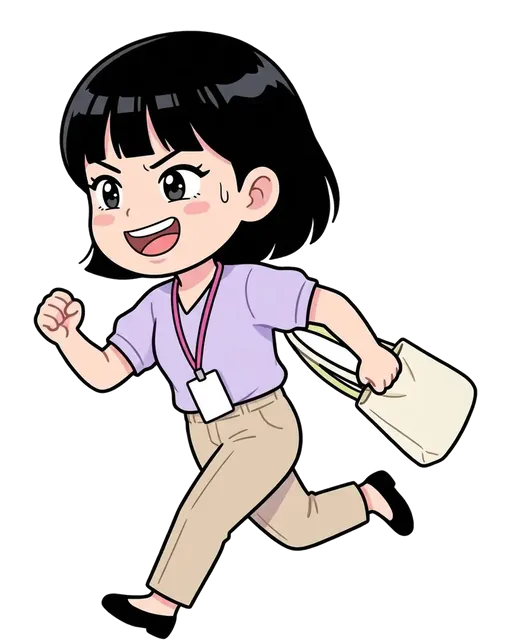
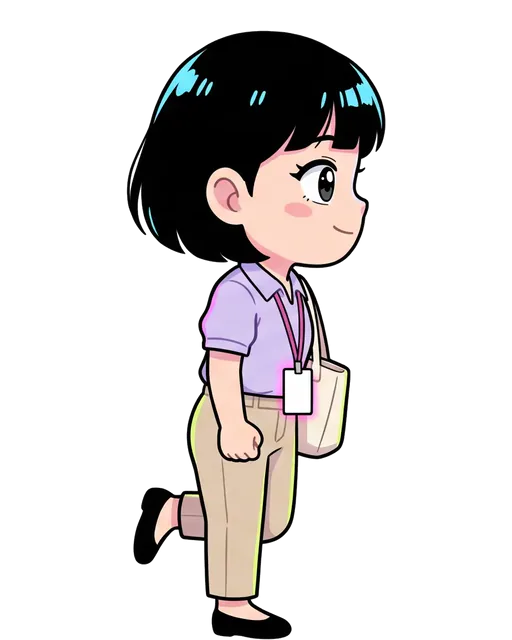
fix(office): hero run cycle and jump all face forward (right)
Run frames 2-3 faced left/camera, so the 4-frame cycle looked like the
hero kept turning around. Regenerated as one right-facing run-cycle sheet
per hero; jump and hit regenerated facing right.

diff --git a/public-office/art/SOURCES.md b/public-office/art/SOURCES.md
@@ -65,20 +65,20 @@ AI-generated for the fictional company 야근상사: no real people, brands, log
 | `floor-1.webp` | nano_banana_flash | bright Korean webtoon comic background art, soft pastel colors, flat cel shading, very low contrast and low detail, no text, no logos. Seamless tileable floor texture seen from directly above: smooth light mint vinyl office flooring with only a soft subtle mottled speckle, no tiles, no grid lines, no seams, nearly uniform color, flat even lighting, nothing on the floor. |
 | `floor-2.webp` | nano_banana_flash | bright Korean webtoon comic background art, soft pastel colors, flat cel shading, very low contrast and low detail, no text, no logos. Seamless tileable floor texture seen from directly above: soft lavender low-pile office carpet with a gentle fuzzy fiber texture and faint soft mottling, no tiles, no grid lines, no seams, no pattern, nearly uniform color, flat even lighting, nothing on the floor. |
 | `floor-3.webp` | nano_banana_flash | bright Korean webtoon comic background art, bold clean outlines, soft pastel base colors with a few small neon accent pops, flat cel shading, low contrast calm background (characters will be drawn on top), no people, no text, no letters, no numbers, no logos. Top-down orthographic view looking straight down at a floor, seamless repeating texture, uniform even pattern edge to edge, flat even lighting, no objects, no shadows, no perspective. The floor: polished peach and cream terrazzo floor tiles with small speckles. |
-| `hero-cat-hit.webp` | nano_banana_flash | $STYLE. Same exact character as the reference image (same face, hair, glasses/badge, outfit, colors, proportions, line style). Single character only, full body head to toe inside the frame, on a pure flat white background, no ground, no shadow, no background objects, no speed-line background. Seen from the side in profile, facing and moving to the RIGHT of the image, body turned slightly toward the viewer (three-quarter side view). Getting bonked: recoiling backward to the left, dizzy swirl eyes, little stars and a cartoon bump on the head, arms flailing, comic pain face (harmless, funny). |
-| `hero-cat-jump.webp` | nano_banana_flash | $STYLE. Same exact character as the reference image (same face, hair, glasses/badge, outfit, colors, proportions, line style). Single character only, full body head to toe inside the frame, on a pure flat white background, no ground, no shadow, no background objects, no speed-line background. Seen from the side in profile, facing and moving to the RIGHT of the image, body turned slightly toward the viewer (three-quarter side view). Jumping high in the air, knees tucked up, arms thrown up, excited shocked face, small motion lines below the feet. |
-| `hero-cat-run1.webp` | nano_banana_flash | $STYLE. Same exact character as the reference image (same face, hair, glasses/badge, outfit, colors, proportions, line style). Single character only, full body head to toe inside the frame, on a pure flat white background, no ground, no shadow, no background objects, no speed-line background. Seen from the side in profile, facing and moving to the RIGHT of the image, body turned slightly toward the viewer (three-quarter side view). Running pose, frame 1 of a run cycle: right leg stretched forward with heel touching down, left leg pushing off behind, arms swinging opposite, leaning forward, determined face. |
-| `hero-cat-run2.webp` | nano_banana_flash | $STYLE. Same exact character as the reference image (same face, hair, glasses/badge, outfit, colors, proportions, line style). Single character only, full body head to toe inside the frame, on a pure flat white background, no ground, no shadow, no background objects, no speed-line background. Seen from the side in profile, facing and moving to the RIGHT of the image, body turned slightly toward the viewer (three-quarter side view). Running pose, frame 2 of a run cycle: right foot planted under the body, left knee lifted and passing forward, arms crossing at the sides, body slightly lower. |
-| `hero-cat-run3.webp` | nano_banana_flash | $STYLE. Same exact character as the reference image (same face, hair, glasses/badge, outfit, colors, proportions, line style). Single character only, full body head to toe inside the frame, on a pure flat white background, no ground, no shadow, no background objects, no speed-line background. Seen from the side in profile, facing and moving to the RIGHT of the image, body turned slightly toward the viewer (three-quarter side view). Running pose, frame 3 of a run cycle: left leg stretched forward with heel touching down, right leg pushing off behind, arms swinging opposite, leaning forward. |
-| `hero-cat-run4.webp` | nano_banana_flash | $STYLE. Same exact character as the reference image (same face, hair, glasses/badge, outfit, colors, proportions, line style). Single character only, full body head to toe inside the frame, on a pure flat white background, no ground, no shadow, no background objects, no speed-line background. Seen from the side in profile, facing and moving to the RIGHT of the image, body turned slightly toward the viewer (three-quarter side view). Running pose, frame 4 of a run cycle: both feet off the ground mid-stride, right knee lifting forward, body high, hair and tie bouncing. |
+| `hero-cat-hit.webp` | nano_banana_flash | $STYLE. Same exact character, outfit and size as the reference image, strict side profile facing RIGHT. Getting bonked while running right: body recoiling backward to the left, face in profile pointing right, dizzy swirl eyes, little stars and a cartoon bump on the head, arms flailing, funny harmless; no objects, no hammer, no weapon. Single character only, full body, pure flat white background, no ground, no shadow, no speed lines. |
+| `hero-cat-jump.webp` | nano_banana_flash | $STYLE. Same exact character, same outfit, same colors, same size and same camera angle as the reference image. Strict side profile view facing RIGHT exactly like the reference: the nose, face, eyes and chest all point to the RIGHT edge of the image, eyes looking straight ahead to the right, we never see the back of the head and the character never looks at the viewer. Single character only, full body head to toe inside the frame, on a pure flat white background, no ground, no shadow, no speed-line background. Jumping high toward the right in side profile: knees tucked up under the body, arms thrown up and forward, excited surprised face in profile looking right. |
+| `hero-cat-run1.webp` | nano_banana_flash (2k, 21:9 sheet) | frame 1 of 4 cut from one run-cycle sheet: $STYLE. Game sprite sheet: exactly FOUR frames of ONE run cycle of the same character, laid out left to right in one row, evenly spaced, same size and same ground line in every frame, every frame in strict side profile facing RIGHT with the face and eyes looking right. Frame 1 contact: front leg reaching forward heel down, back leg behind. Frame 2 passing: one leg straight under the body bearing weight, the other knee bent swinging through, arms close to the body. Frame 3 push-off: back leg fully extended pushing off the toes, front knee driven high. Frame 4 flight: both feet off the ground, legs split wide, body highest. Arms swing opposite to legs. Pure flat white background, no ground line, no shadows, no speed lines, no text, no numbers, no borders between frames. The character is exactly the one in the reference images (young woman, glossy black bob with bangs, lavender short-sleeve blouse, pink lanyard with a blank white ID badge, beige slacks, black flats, cream eco bag on her shoulder). |
+| `hero-cat-run2.webp` | nano_banana_flash (2k, 21:9 sheet) | frame 2 of 4 cut from one run-cycle sheet: $STYLE. Game sprite sheet: exactly FOUR frames of ONE run cycle of the same character, laid out left to right in one row, evenly spaced, same size and same ground line in every frame, every frame in strict side profile facing RIGHT with the face and eyes looking right. Frame 1 contact: front leg reaching forward heel down, back leg behind. Frame 2 passing: one leg straight under the body bearing weight, the other knee bent swinging through, arms close to the body. Frame 3 push-off: back leg fully extended pushing off the toes, front knee driven high. Frame 4 flight: both feet off the ground, legs split wide, body highest. Arms swing opposite to legs. Pure flat white background, no ground line, no shadows, no speed lines, no text, no numbers, no borders between frames. The character is exactly the one in the reference images (young woman, glossy black bob with bangs, lavender short-sleeve blouse, pink lanyard with a blank white ID badge, beige slacks, black flats, cream eco bag on her shoulder). |
+| `hero-cat-run3.webp` | nano_banana_flash (2k, 21:9 sheet) | frame 3 of 4 cut from one run-cycle sheet: $STYLE. Game sprite sheet: exactly FOUR frames of ONE run cycle of the same character, laid out left to right in one row, evenly spaced, same size and same ground line in every frame, every frame in strict side profile facing RIGHT with the face and eyes looking right. Frame 1 contact: front leg reaching forward heel down, back leg behind. Frame 2 passing: one leg straight under the body bearing weight, the other knee bent swinging through, arms close to the body. Frame 3 push-off: back leg fully extended pushing off the toes, front knee driven high. Frame 4 flight: both feet off the ground, legs split wide, body highest. Arms swing opposite to legs. Pure flat white background, no ground line, no shadows, no speed lines, no text, no numbers, no borders between frames. The character is exactly the one in the reference images (young woman, glossy black bob with bangs, lavender short-sleeve blouse, pink lanyard with a blank white ID badge, beige slacks, black flats, cream eco bag on her shoulder). |
+| `hero-cat-run4.webp` | nano_banana_flash (2k, 21:9 sheet) | frame 4 of 4 cut from one run-cycle sheet: $STYLE. Game sprite sheet: exactly FOUR frames of ONE run cycle of the same character, laid out left to right in one row, evenly spaced, same size and same ground line in every frame, every frame in strict side profile facing RIGHT with the face and eyes looking right. Frame 1 contact: front leg reaching forward heel down, back leg behind. Frame 2 passing: one leg straight under the body bearing weight, the other knee bent swinging through, arms close to the body. Frame 3 push-off: back leg fully extended pushing off the toes, front knee driven high. Frame 4 flight: both feet off the ground, legs split wide, body highest. Arms swing opposite to legs. Pure flat white background, no ground line, no shadows, no speed lines, no text, no numbers, no borders between frames. The character is exactly the one in the reference images (young woman, glossy black bob with bangs, lavender short-sleeve blouse, pink lanyard with a blank white ID badge, beige slacks, black flats, cream eco bag on her shoulder). |
 | `hero-cat-slide.webp` | nano_banana_flash | $STYLE. Same exact character as the reference image (same face, hair, glasses/badge, outfit, colors, proportions, line style). Single character only, full body head to toe inside the frame, on a pure flat white background, no ground, no shadow, no background objects, no speed-line background. Seen from the side in profile, facing and moving to the RIGHT of the image, body turned slightly toward the viewer (three-quarter side view). Sliding low on the floor feet-first toward the right like a baseball slide, body leaning back almost lying down, one hand trailing on the floor, eyes squeezed, hair blown back; the whole pose is long and low. |
 | `hero-cat-win.webp` | nano_banana_flash | $STYLE. Same exact character as the reference image (same face, hair, glasses/badge, outfit, colors, proportions, line style). Single character only, full body head to toe inside the frame, on a pure flat white background, no ground, no shadow, no background objects, no speed-line background.  Victory pose facing the viewer, both arms raised high in a joyful cheer, huge happy open-mouth smile, sparkles around, jumping slightly. |
-| `hero-kid-hit.webp` | nano_banana_flash | $STYLE. Same exact character as the first reference image (same face, hair, glasses, white shirt, mint tie, navy slacks, orange backpack and sneakers, line style). Single character only, full body inside the frame, on a pure flat white background, no ground, no shadow, no speed-line background, no effects behind. Seen from the side facing right. Getting bonked: recoiling backward to the left, dizzy swirl eyes, little stars and a cartoon bump on the head, arms flailing, comic pain face (harmless, funny). Plain white behind him, no radiating lines. |
-| `hero-kid-jump.webp` | nano_banana_flash | $STYLE. Same exact character as the reference image (same face, hair, glasses/badge, outfit, colors, proportions, line style). Single character only, full body head to toe inside the frame, on a pure flat white background, no ground, no shadow, no background objects, no speed-line background. Seen from the side in profile, facing and moving to the RIGHT of the image, body turned slightly toward the viewer (three-quarter side view). Jumping high in the air, knees tucked up, arms thrown up, excited shocked face, small motion lines below the feet. |
-| `hero-kid-run1.webp` | nano_banana_flash | $STYLE. Same exact character as the reference image (same face, hair, glasses/badge, outfit, colors, proportions, line style). Single character only, full body head to toe inside the frame, on a pure flat white background, no ground, no shadow, no background objects, no speed-line background. Seen from the side in profile, facing and moving to the RIGHT of the image, body turned slightly toward the viewer (three-quarter side view). Running pose, frame 1 of a run cycle: right leg stretched forward with heel touching down, left leg pushing off behind, arms swinging opposite, leaning forward, determined face. |
-| `hero-kid-run2.webp` | nano_banana_flash | $STYLE. Same exact character as the reference image (same face, hair, glasses/badge, outfit, colors, proportions, line style). Single character only, full body head to toe inside the frame, on a pure flat white background, no ground, no shadow, no background objects, no speed-line background. Seen from the side in profile, facing and moving to the RIGHT of the image, body turned slightly toward the viewer (three-quarter side view). Running pose, frame 2 of a run cycle: right foot planted under the body, left knee lifted and passing forward, arms crossing at the sides, body slightly lower. |
-| `hero-kid-run3.webp` | nano_banana_flash | $STYLE. Same exact character as the reference image (same face, hair, glasses/badge, outfit, colors, proportions, line style). Single character only, full body head to toe inside the frame, on a pure flat white background, no ground, no shadow, no background objects, no speed-line background. Seen from the side in profile, facing and moving to the RIGHT of the image, body turned slightly toward the viewer (three-quarter side view). Running pose, frame 3 of a run cycle: left leg stretched forward with heel touching down, right leg pushing off behind, arms swinging opposite, leaning forward. |
-| `hero-kid-run4.webp` | nano_banana_flash | $STYLE. Same exact character as the reference image (same face, hair, glasses/badge, outfit, colors, proportions, line style). Single character only, full body head to toe inside the frame, on a pure flat white background, no ground, no shadow, no background objects, no speed-line background. Seen from the side in profile, facing and moving to the RIGHT of the image, body turned slightly toward the viewer (three-quarter side view). Running pose, frame 4 of a run cycle: both feet off the ground mid-stride, right knee lifting forward, body high, hair and tie bouncing. |
+| `hero-kid-hit.webp` | nano_banana_flash | $STYLE. Same exact character, same outfit, same colors, same size and same camera angle as the reference image. Strict side profile view facing RIGHT exactly like the reference: the nose, face, eyes and chest all point to the RIGHT edge of the image, eyes looking straight ahead to the right, we never see the back of the head and the character never looks at the viewer. Single character only, full body head to toe inside the frame, on a pure flat white background, no ground, no shadow, no speed-line background. Getting bonked while running right: body recoiling backward to the left but the face still in side profile pointing right, dizzy swirl eyes, little stars and a cartoon bump on the head, arms flailing (harmless, funny). |
+| `hero-kid-jump.webp` | nano_banana_flash | $STYLE. Same exact character, same outfit, same colors, same size and same camera angle as the reference image. Strict side profile view facing RIGHT exactly like the reference: the nose, face, eyes and chest all point to the RIGHT edge of the image, eyes looking straight ahead to the right, we never see the back of the head and the character never looks at the viewer. Single character only, full body head to toe inside the frame, on a pure flat white background, no ground, no shadow, no speed-line background. Jumping high toward the right in side profile: knees tucked up under the body, arms thrown up and forward, excited surprised face in profile looking right. |
+| `hero-kid-run1.webp` | nano_banana_flash (2k, 21:9 sheet) | frame 1 of 4 cut from one run-cycle sheet: $STYLE. Game sprite sheet: exactly FOUR frames of ONE run cycle of the same character, laid out left to right in one row, evenly spaced, same size and same ground line in every frame, every frame in strict side profile facing RIGHT with the face and eyes looking right. Frame 1 contact: front leg reaching forward heel down, back leg behind. Frame 2 passing: one leg straight under the body bearing weight, the other knee bent swinging through, arms close to the body. Frame 3 push-off: back leg fully extended pushing off the toes, front knee driven high. Frame 4 flight: both feet off the ground, legs split wide, body highest. Arms swing opposite to legs. Pure flat white background, no ground line, no shadows, no speed lines, no text, no numbers, no borders between frames. The character is exactly the one in the reference images (young man, round glasses, white short-sleeve shirt, mint necktie, navy slacks, orange backpack, orange sneakers). |
+| `hero-kid-run2.webp` | nano_banana_flash (2k, 21:9 sheet) | frame 2 of 4 cut from one run-cycle sheet: $STYLE. Game sprite sheet: exactly FOUR frames of ONE run cycle of the same character, laid out left to right in one row, evenly spaced, same size and same ground line in every frame, every frame in strict side profile facing RIGHT with the face and eyes looking right. Frame 1 contact: front leg reaching forward heel down, back leg behind. Frame 2 passing: one leg straight under the body bearing weight, the other knee bent swinging through, arms close to the body. Frame 3 push-off: back leg fully extended pushing off the toes, front knee driven high. Frame 4 flight: both feet off the ground, legs split wide, body highest. Arms swing opposite to legs. Pure flat white background, no ground line, no shadows, no speed lines, no text, no numbers, no borders between frames. The character is exactly the one in the reference images (young man, round glasses, white short-sleeve shirt, mint necktie, navy slacks, orange backpack, orange sneakers). |
+| `hero-kid-run3.webp` | nano_banana_flash (2k, 21:9 sheet) | frame 3 of 4 cut from one run-cycle sheet: $STYLE. Game sprite sheet: exactly FOUR frames of ONE run cycle of the same character, laid out left to right in one row, evenly spaced, same size and same ground line in every frame, every frame in strict side profile facing RIGHT with the face and eyes looking right. Frame 1 contact: front leg reaching forward heel down, back leg behind. Frame 2 passing: one leg straight under the body bearing weight, the other knee bent swinging through, arms close to the body. Frame 3 push-off: back leg fully extended pushing off the toes, front knee driven high. Frame 4 flight: both feet off the ground, legs split wide, body highest. Arms swing opposite to legs. Pure flat white background, no ground line, no shadows, no speed lines, no text, no numbers, no borders between frames. The character is exactly the one in the reference images (young man, round glasses, white short-sleeve shirt, mint necktie, navy slacks, orange backpack, orange sneakers). |
+| `hero-kid-run4.webp` | nano_banana_flash (2k, 21:9 sheet) | frame 4 of 4 cut from one run-cycle sheet: $STYLE. Game sprite sheet: exactly FOUR frames of ONE run cycle of the same character, laid out left to right in one row, evenly spaced, same size and same ground line in every frame, every frame in strict side profile facing RIGHT with the face and eyes looking right. Frame 1 contact: front leg reaching forward heel down, back leg behind. Frame 2 passing: one leg straight under the body bearing weight, the other knee bent swinging through, arms close to the body. Frame 3 push-off: back leg fully extended pushing off the toes, front knee driven high. Frame 4 flight: both feet off the ground, legs split wide, body highest. Arms swing opposite to legs. Pure flat white background, no ground line, no shadows, no speed lines, no text, no numbers, no borders between frames. The character is exactly the one in the reference images (young man, round glasses, white short-sleeve shirt, mint necktie, navy slacks, orange backpack, orange sneakers). |
 | `hero-kid-slide.webp` | nano_banana_flash | $STYLE. Same exact character as the first reference image (same face, hair, glasses, white shirt, mint tie, navy slacks, orange backpack and sneakers, line style). Single character only, full body inside the frame, on a pure flat white background, no ground, no shadow, no speed-line background, no effects behind. Copy the low sliding pose of the second reference image: a baseball-style floor slide toward the RIGHT, both legs stretched straight forward to the right, torso reclined backward almost lying down, one hand trailing on the floor behind, head low, eyes squeezed shut, hair and tie blown back. The pose is long and low, wider than tall. |
 | `hero-kid-win.webp` | nano_banana_flash | $STYLE. Same exact character as the reference image (same face, hair, glasses/badge, outfit, colors, proportions, line style). Single character only, full body head to toe inside the frame, on a pure flat white background, no ground, no shadow, no background objects, no speed-line background.  Victory pose facing the viewer, both arms raised high in a joyful cheer, huge happy open-mouth smile, sparkles around, jumping slightly. |
 | `op-cat.webp` | nano_banana_flash | $STYLE. Portrait of exactly the character in the reference image, full body, confident cheerful pose with a peace sign, on a soft lavender pastel gradient background with neon sparkle accents, centered, full body head to toe. |
@@ -144,6 +144,8 @@ AI-generated for the fictional company 야근상사: no real people, brands, log
 map-bg: 9:16 → centre crop 9:20 → 1080×2400, blended 30 % toward #F5EEF0 (low contrast for stage nodes), cwebp -q 78. cut/op-1 regenerated full-bleed (no caption strip), cwebp -q 66 to stay under 200 KB.
 
 floor-1, floor-2 and prop-papers were regenerated after the in-game review (grid moiré on floors; white papers blended into the mint floor).
+
+Run-cycle fix (branch fix/office-camera-facing): the first run/jump frames faced different directions. run1–4 now come from one 4-frame sheet per hero (refs: `ref-<hero>2` + the old run1), split into quarter cells, cut out, scaled by ONE shared factor (tallest frame 610 px) and bottom-aligned on 512×640. jump and hit were regenerated in strict right-facing profile from the old run1. Single-frame re-edits from run1 and stick-figure pose guides were tried and rejected (the model copied run1's stride).
 
 Rejected and regenerated (prompts above are the final ones): ref-kid/ref-cat (cardigan, speed-line background), hero-kid-slide (was a run pose), hero-kid-hit (radiating lines), wall-0-dawn-b / wall-0-night-b (perspective room), wall-1-a (lettered jar labels), cut/end-1 (no scene), cut/boss-5-c (sound-effect lettering), cut/boss-2-a and cut/boss-5-b (drawn empty caption boxes).
 
